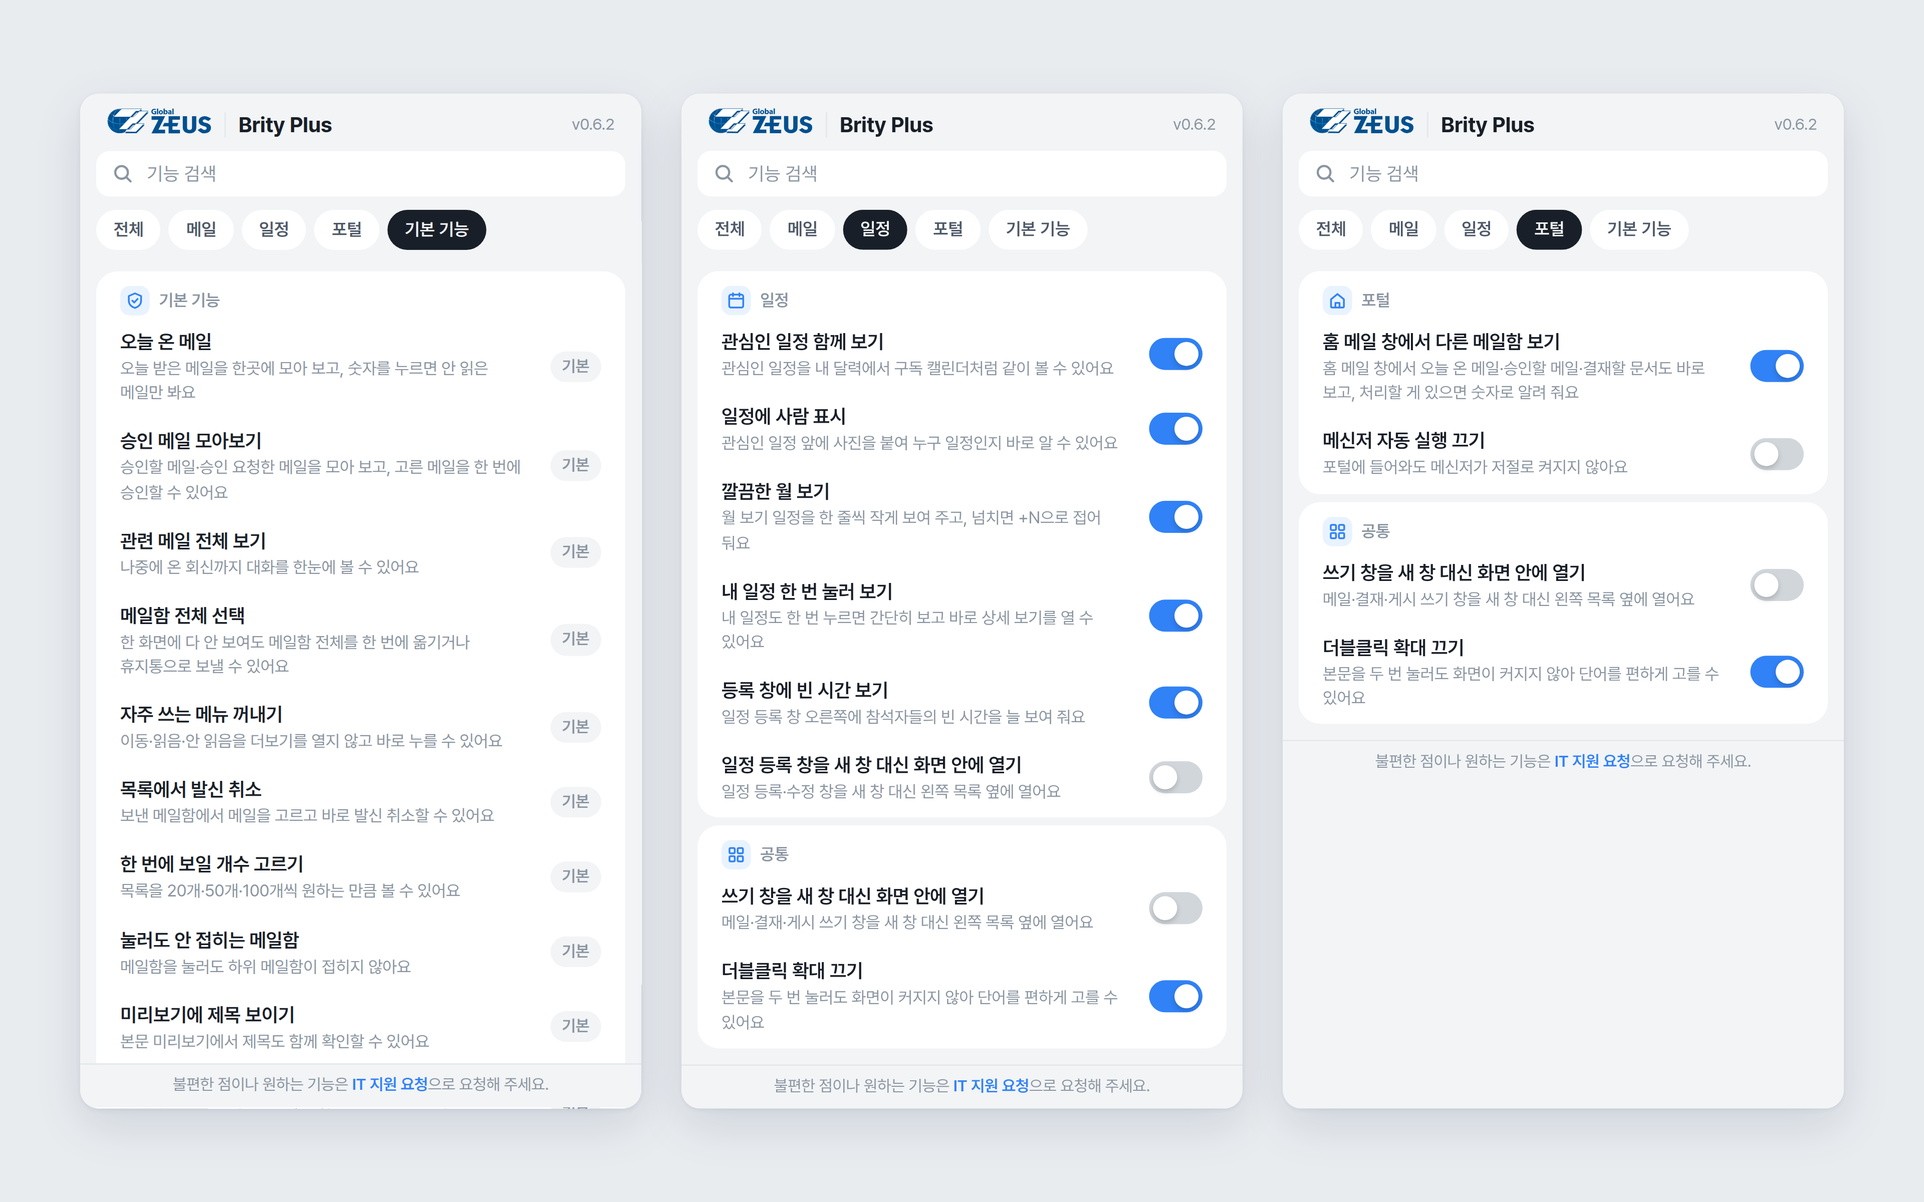
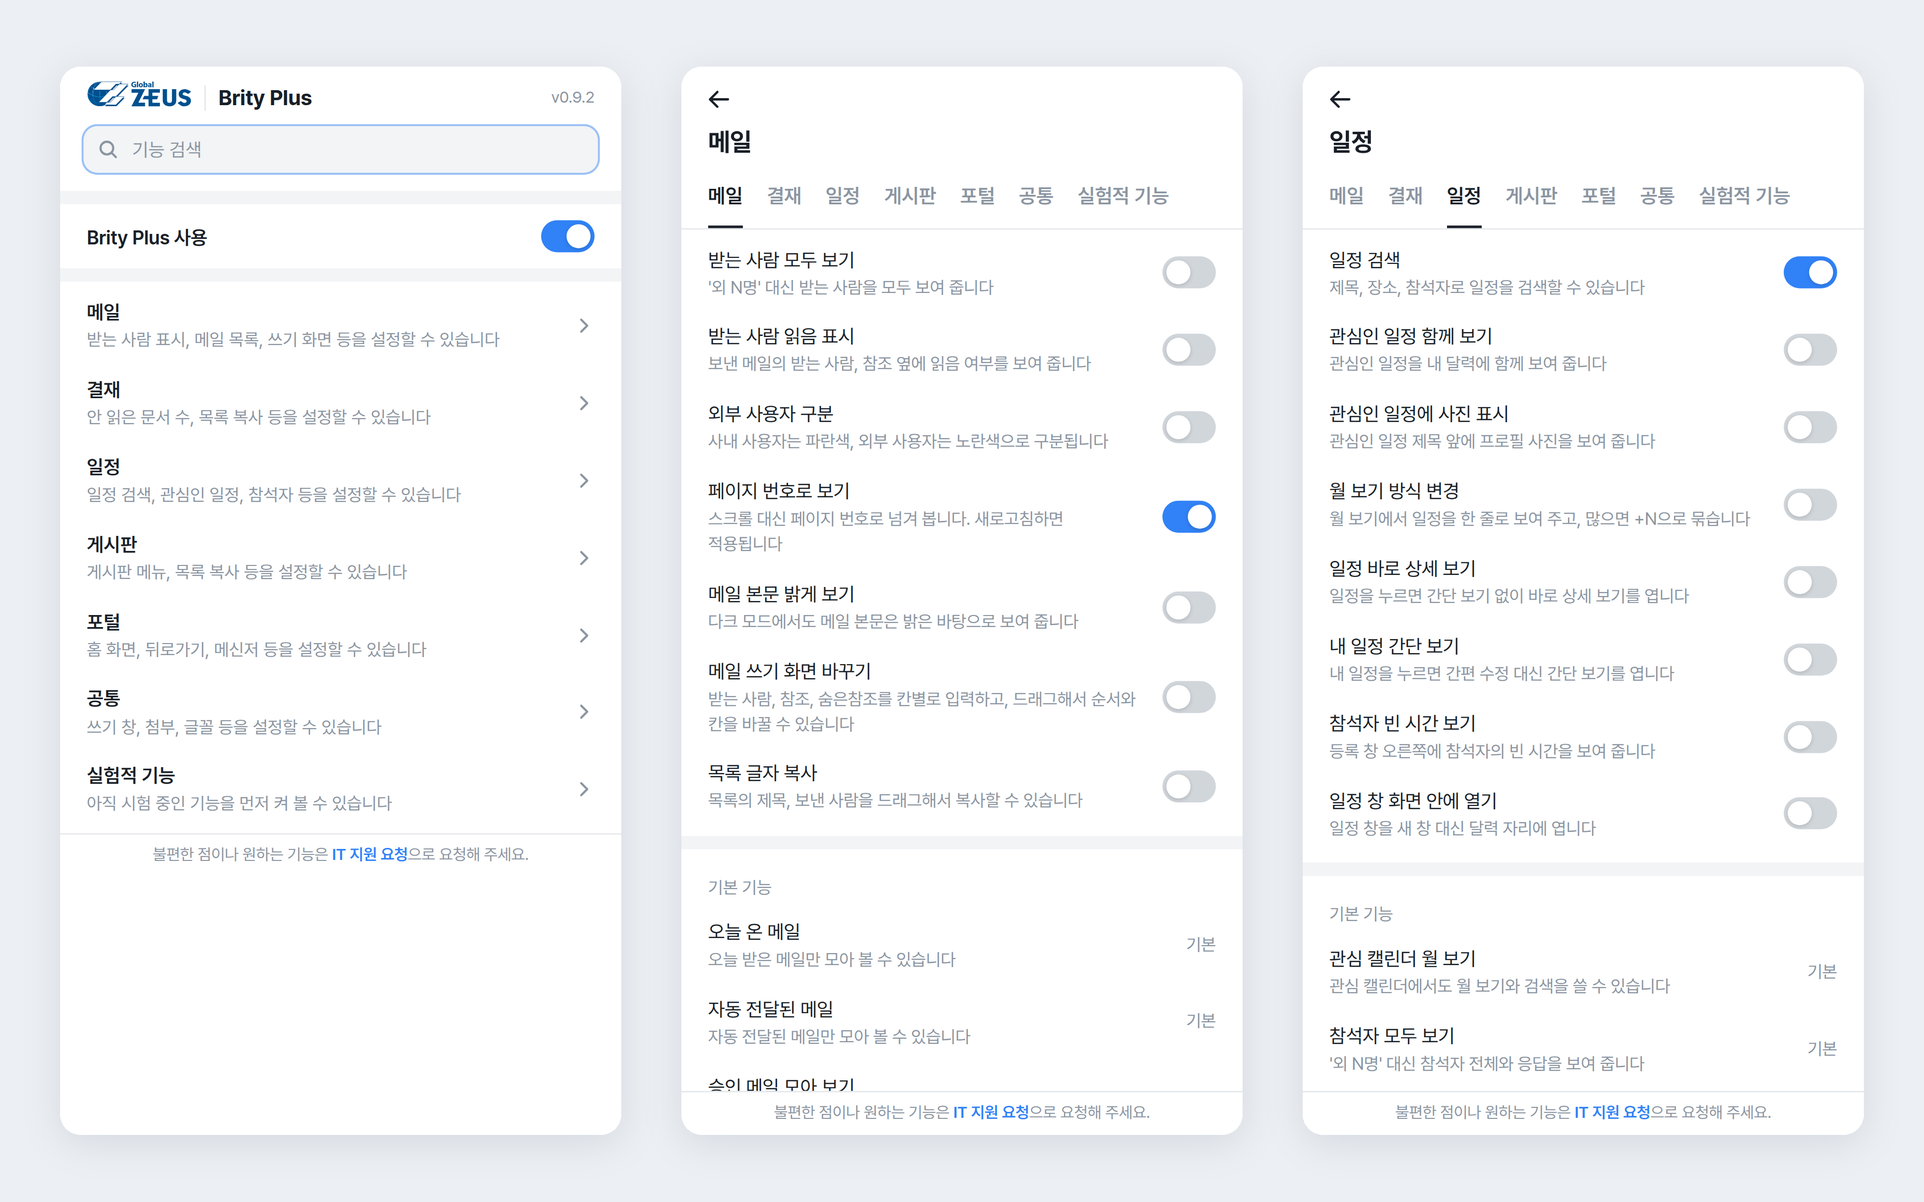
content: 10-07 이후 변경분 반영, AI 회의록과 양식 섹션 추가
- brity-plus: 기능 수 46개(기본 24), 원격 관리, 그룹 단위 공개,
  설치 프로그램 배포를 적고 팝업과 콘솔 캡처를 0.9.2 기준으로 다시 찍음
- ai-platform: 생각 깊이 네 단계와 매우 높음 주간 한도, 개발 중인
  양식과 AI 회의록 섹션과 캡처 추가
- oneplace: 알림 발송 권한, hr-evaluation: 2026년 10월 작업 반영

diff --git a/src/content/builds.ts b/src/content/builds.ts
@@ -95,10 +95,10 @@ export const builds: Build[] = [
     tech: 'Chrome Extension (Manifest V3) · JavaScript · Node.js',
     other: true,
     blocks: [
-      { type: 'image', src: '/projects/brity-plus/271.png', alt: 'Brity Plus 팝업 - 기본 기능 목록, 일정과 포털 탭의 켜고 끄는 스위치', caption: '기능 설정 팝업' },
+      { type: 'image', src: '/projects/brity-plus/271.png', alt: 'Brity Plus 팝업 - 분류 목록, 메일과 일정 분류의 켜고 끄는 스위치와 기본 기능', caption: '기능 설정 팝업' },
       { type: 'heading', text: '개요' },
       { type: 'paragraph', text: '회사 그룹웨어인 Brity Works의 불편한 점을 브라우저 쪽에서 고치는 크롬 확장 프로그램입니다. 사내에서 모은 개선 요청을 삼성SDS에 전달했고, 그중 화면 동작에 관한 일부는 반영할 수 없다는 답을 받았습니다. 서버는 고칠 수 없어서 브라우저에서 고쳤습니다.' },
-      { type: 'paragraph', text: '메일, 결재, 일정, 게시판, 포털에 걸쳐 서른 개 기능이 있습니다. 열아홉 개는 늘 켜져 있는 기본 기능이고, 나머지 열한 개는 확장 아이콘을 눌러 켜고 끕니다. 화면 동작을 크게 바꾸는 기능은 처음에 꺼 둡니다. 설정은 사내 포털 계정에 저장해 다른 PC에서도 같게 씁니다.' },
+      { type: 'paragraph', text: '메일, 결재, 일정, 게시판, 포털에 걸쳐 마흔여섯 개 기능이 있습니다. 스물네 개는 늘 켜져 있는 기본 기능이고, 나머지 스물두 개는 확장 아이콘을 눌러 켜고 끕니다. 화면 동작을 크게 바꾸는 기능은 처음에 꺼 둡니다. 설정은 사내 포털 계정에 저장해 다른 PC에서도 같게 씁니다.' },
       { type: 'heading', text: '메일함 전체 선택' },
       { type: 'paragraph', text: 'Brity 메일은 화면에 불러온 목록 안에서만 메일을 고를 수 있습니다. 전체 선택을 켜면 메일함 전체를 골라 한 번에 옮기거나 휴지통으로 보냅니다. 옮기고 지우는 요청은 Brity 화면이 쓰는 것을 그대로 써서, Brity에서 직접 처리한 것과 결과가 같습니다.' },
       { type: 'heading', text: '포털 뒤로가기' },
@@ -107,8 +107,14 @@ export const builds: Build[] = [
       { type: 'paragraph', text: 'Brity의 첨부 뷰어는 꺼져 있어 첨부를 보려면 내려받아야 했습니다. 이미지는 새 창에 바로 띄우고, 한글과 오피스 문서는 사내 포털의 공용 문서뷰어로 엽니다. 뷰어에 올린 파일은 올린 사람만 볼 수 있고 잠시 뒤 지워집니다.' },
       { type: 'heading', text: '일정' },
       { type: 'paragraph', text: '관심인으로 등록한 동료의 일정을 내 달력에 겹쳐 보고, 누구 일정인지 사진으로 표시합니다. 일정을 등록할 때는 참석자들의 빈 시간을 등록 창 옆에 늘 띄웁니다.' },
+      { type: 'heading', text: '원격 관리' },
+      { type: 'paragraph', text: '확장이 Brity 화면을 망가뜨렸을 때 새 버전을 올리고 심사를 기다릴 수는 없습니다. 사내 포털 관리 화면에서 기능 하나나 전체를 끄면, 직원이 Brity 화면을 새로 열 때 꺼집니다. 끈 목록은 로그인 없이 받아 와서 포털에 로그인하지 않은 직원에게도 걸리고, 받아 오지 못하면 지난번 값을 씁니다. 같은 화면에서 기능 이름과 설명, 기본 기능 여부, 처음에 켜 둘지도 바꿉니다.' },
+      { type: 'image', src: '/projects/brity-plus/console-features.png', alt: 'Brity Plus 기능 관리 - 분류별 기능 목록, 기능마다 수정 단추와 켜고 끄는 스위치, 기본 기능 표시', caption: '기능 관리' },
+      { type: 'paragraph', text: '기능은 그룹 단위로 엽니다. 그룹에 기능과 사람이나 부서를 넣으면 그 구성원에게만 기능이 보이고, 부서는 하위 부서까지 넣을지 고릅니다. 새 기능은 시범 그룹에 먼저 열어 보고 전사 그룹에 넣습니다.' },
+      { type: 'image', src: '/projects/brity-plus/console-groups.png', alt: 'Brity Plus 그룹 설정 - 왼쪽 그룹 목록, 오른쪽 전사 그룹에 넣은 기능 타일', caption: '그룹 설정' },
       { type: 'heading', text: '배포' },
       { type: 'paragraph', text: '크롬 웹스토어에 검색되지 않는 \'목록에 없음\'으로 올리고, 회사 정책으로 직원 PC에 설치합니다. 도메인에 가입하지 않은 PC도 있어, 웹스토어 밖에서 받는 방식은 쓰지 않았습니다. 일정 변경 이력은 Brity가 그 정보를 내주지 않아 만들지 못했습니다.' },
+      { type: 'paragraph', text: '직원에게는 설치 프로그램 하나를 나눠 줍니다. 실행하면 관리자 권한으로 크롬과 엣지의 회사 정책에 확장을 등록하고, 마지막에 브라우저를 다시 열어 바로 적용합니다. 배포 도구로는 창 없이 설치하고, 지우면 등록한 항목만 빠집니다.' },
     ],
   },
   {
@@ -322,6 +328,7 @@ export const builds: Build[] = [
       { type: 'paragraph', text: '시스템은 하나씩 옮겼습니다. 아직 옛 방식인 시스템도 같은 아웃박스와 워커를 쓰게 해, 프로젝트 관리와 영업, 특허, 근태, 방문예약을 차례로 전환하는 동안 알림이 끊기지 않았습니다.' },
       { type: 'heading', text: '알림 발송' },
       { type: 'paragraph', text: '관리자가 사내 메신저로 공지를 보내는 알림 발송 화면도 만들었습니다. 발신 봇을 고르고 부서나 조건으로 받는 사람을 정해 카드, 글, 이미지, 링크, 표로 보냅니다. 받는 사람마다 값을 바꿔 넣는 템플릿과 매일, 매주, 매월 반복 발송이 있고, 발송 이력에서 받는 사람별 결과를 봅니다. 발송은 알림 플랫폼과 같은 아웃박스와 워커를 탑니다.' },
+      { type: 'paragraph', text: '발신 권한은 봇마다 사람이나 부서에 주고, 권한이 있는 사람에게만 알림 발송 메뉴가 열립니다.' },
       { type: 'heading', text: '모바일 앱' },
       { type: 'image', src: '/projects/oneplace/142.png', alt: '모바일 앱 홈 화면', caption: '모바일 앱 셸 - 홈' },
       { type: 'image', src: '/projects/oneplace/143.png', alt: '모바일 앱 알림 화면', caption: '모바일 앱 셸 - 받은 알림' },
@@ -490,6 +497,11 @@ export const builds: Build[] = [
       { type: 'image', src: '/projects/ai-platform/181.png', alt: 'HTML 웹페이지 생성 화면 - 채팅 옆 아티팩트 패널 렌더링', caption: 'HTML 리포트를 만든 대화' },
       { type: 'paragraph', text: '웹페이지는 생성 직후 정적 규칙 검사와 헤드리스 렌더링 계측으로 요소 겹침이나 화면 넘침 같은 결함을 찾아 힌트로 에이전트에게 되돌리고, 에이전트는 전체를 다시 만드는 대신 결함이 있는 부분만 편집 도구로 고칩니다.' },
       { type: 'image', src: '/projects/ai-platform/133.png', alt: '보관함 화면', caption: '채팅에서 쓰고 만든 파일이 모이는 보관함' },
+      { type: 'heading', text: '양식 (개발 중)' },
+      { type: 'image', src: '/projects/ai-platform/274.png', alt: '양식 상세 화면 - 장 미리보기, 작성 규칙, 이 양식으로 채팅 시작 버튼', caption: '양식 상세' },
+      { type: 'paragraph', text: '회사 PPT 양식을 채팅에 매번 다시 올리는 사람이 많았습니다. 2주 동안 27명이 양식 파일을 75번 올렸고, 그중 12명은 같은 파일을 거듭 올렸습니다. 그래서 양식을 한 번 올려 두고 대화에서 고르게 했습니다.' },
+      { type: 'paragraph', text: '양식을 고르면 입력창에 칩으로 붙고, 그 대화의 PPT는 양식 파일 위에 만들어집니다. 양식을 색과 글꼴 같은 규격으로 바꾸지 않고 원본 위에 채우는 것은 마스터와 로고를 그대로 살리기 위해서입니다. 파일에 담기지 않는 제목 길이나 숫자 표기 같은 관례는 양식마다 작성 규칙으로 적어 둡니다.' },
+      { type: 'paragraph', text: '올린 양식은 사람, 부서, 전사에 공유합니다. 남이 공유한 양식의 작성 규칙은 지시가 아니라 참고 자료로만 넘겨, 규칙에 적힌 문장이 에이전트를 움직이지 못하게 했습니다.' },
       { type: 'heading', text: 'AI 슬라이드 (개발 중)' },
       { type: 'image', src: '/projects/ai-platform/250.png', alt: 'AI 슬라이드 갤러리 - 내 프로젝트와 템플릿', caption: '내 프로젝트와 템플릿' },
       { type: 'image', src: '/projects/ai-platform/251.png', alt: 'AI 슬라이드 편집 화면 - 왼쪽 AI 대화, 가운데 편집 중인 장, 아래 장 목록', caption: '편집 화면' },
@@ -504,6 +516,12 @@ export const builds: Build[] = [
       { type: 'paragraph', text: '사람이 직접 고친 부분은 에이전트가 덮어쓰지 않고, 되돌리기를 눌러도 그사이 에이전트가 바꾼 내용은 그대로 둡니다. 에이전트가 고친 턴마다 저장 지점을 남겨, 기록에서 이전 판으로 돌아갈 수 있습니다.' },
       { type: 'paragraph', text: '대화로 고치다가 직접 손보고 싶을 때를 위해 편집기 왼쪽에 요소, 텍스트, 사진, 업로드, 배경 패널을 두었습니다. 요소 패널에는 도형과 아이콘 외에 차트 모양과 타임라인, SWOT 같은 도해를 묶음으로 두어 장의 뼈대를 한 번에 세울 수 있습니다. 요소를 끌면 다른 요소의 가장자리나 장 가운데에 붙으면서 안내선이 서고, 묶거나 잠글 수도 있습니다. 글꼴과 정렬은 위쪽 서식 줄에서 바로 바꿉니다.' },
       { type: 'paragraph', text: '사진은 여러 장을 한 번에 올리거나 편집 중인 장에 바로 끌어다 놓을 수 있고, 사진 패널에서 무료 사진을 찾아 넣을 수도 있습니다. 사진이 발표자료에 박혀 밖으로 나가기 때문에 출처 표기 의무가 없는 CC0 사진만 서버를 거쳐 보여 줍니다.' },
+      { type: 'heading', text: 'AI 회의록 (개발 중)' },
+      { type: 'image', src: '/projects/ai-platform/275.png', alt: '회의 상세 화면 - 왼쪽 화자별 기록, 오른쪽 요약과 근거 시각, 아래 재생 막대', caption: '회의 상세 - 기록과 요약' },
+      { type: 'image', src: '/projects/ai-platform/276.png', alt: '회의 목록 화면 - 회의 시작, 녹음 파일 올리기, 회의별 요약', caption: '회의 목록' },
+      { type: 'paragraph', text: '회의를 녹음하거나 녹음 파일을 올리면 발언 기록으로 옮기고, 기록을 바탕으로 요약을 만듭니다. 기록의 글자를 누르면 그 자리부터 다시 듣고, 요약 항목마다 근거가 된 발언 시각이 붙습니다.' },
+      { type: 'paragraph', text: '녹음은 브라우저에서 바로 합니다. 녹음하는 동안 조각을 브라우저에 쌓아 두어, 탭이 닫혀도 다시 열면 녹음을 건질 수 있습니다. 전사할 때는 참석자 이름과 회의 용어를 힌트로 넘겨 이름을 잘못 받아 적는 일을 줄였습니다.' },
+      { type: 'paragraph', text: '요약의 근거 시각은 모델이 쓴 인용을 기록에서 실제로 찾았을 때만 붙이고, 찾지 못하면 근거 미확인으로 남깁니다. 할 일의 기한이 주말이나 회사 휴일에 걸리면 앞 평일로 맞춥니다. 회의 내용은 AI에게 묻기 탭에서 이어서 물어볼 수 있습니다.' },
       { type: 'heading', text: '코드 인터프리터' },
       { type: 'image', src: '/projects/ai-platform/163.png', alt: '코드 인터프리터 차트 생성 화면', caption: '코드 실행 결과 - 인터랙티브 차트' },
       { type: 'paragraph', text: '데이터 분석이나 차트 생성처럼 계산이 필요한 요청은 LLM이 직접 답하지 않고 Python 코드를 작성해 실행합니다. 실행 환경은 네트워크 차단, 읽기 전용 파일시스템, 리소스 제한을 건 격리 샌드박스를 별도 서비스로 두었고, 격리 항목을 자동 검증하는 스크립트를 배포 조건으로 삼았습니다.' },
@@ -539,7 +557,8 @@ export const builds: Build[] = [
       { type: 'image', src: '/projects/ai-platform/130.png', alt: '한도 제어 화면', caption: '사용자별 맞춤 한도' },
       { type: 'paragraph', text: 'Claude Opus 같은 고단가 모델을 열면서 사용자별 월 한도(USD)를 두었습니다. 호출마다 모델 단가와 사용 토큰으로 비용을 쌓고, 모델을 고를 때 이번 달 누적을 확인해 한도를 넘긴 모델은 고를 수 없게 합니다.' },
       { type: 'paragraph', text: '모델은 OpenAI, Anthropic, Gemini를 함께 지원하고, 프로바이더별 API 차이는 드라이버 계층에서 흡수합니다. 프롬프트 캐싱의 캐시 토큰도 따로 집계해 청구 기준에 맞춰 계산합니다.' },
-      { type: 'paragraph', text: '모델 메뉴에서 추론 강도를 낮음, 중간, 높음 세 단계로 고를 수 있습니다. 공급자마다 단계 이름과 값이 달라 모델별로 세 단계를 실제 값에 대응시켰고, 값이 확인되지 않은 모델에서는 선택을 숨깁니다.' },
+      { type: 'paragraph', text: '모델 메뉴에서 생각 깊이를 낮음, 중간, 높음, 매우 높음 네 단계로 고릅니다. 공급자마다 단계 이름과 값이 달라 모델별로 실제 값에 대응시켰고, 값이 확인되지 않은 모델에서는 선택을 숨깁니다. 매우 높음은 느리고 비용이 커서 사람마다 일주일에 40회로 묶고, 넘기면 높음으로 답합니다.' },
+      { type: 'image', src: '/projects/ai-platform/277.png', alt: '모델 메뉴의 생각 깊이 - 낮음, 중간, 높음, 매우 높음과 남은 횟수', caption: '생각 깊이' },
       { type: 'paragraph', text: '비용을 관리자만 보는 구조로는 사용자가 자기 소비를 알 수 없어, 본인 사용량 화면을 따로 열었습니다. 월 단위로 쓴 금액과 토큰, 모델별 분해, 일자별 추이를 보고 한도가 걸리는 모델은 표식으로 구분합니다. 답변에도 그 턴에 든 비용을 모델 배지 옆에 붙여, 어떤 질문이 비싼지 그 자리에서 보이게 했습니다.' },
       { type: 'heading', text: '대시보드' },
       { type: 'image', src: '/projects/ai-platform/131.png', alt: '관리자 대시보드 화면', caption: '관리자 대시보드' },
@@ -742,7 +761,7 @@ export const builds: Build[] = [
     category: 'Enterprise System',
     org: 'GlobalZeus',
     role: '2인 개발(풀스택)',
-    period: '2023. 10 ~ 2024. 12',
+    period: '2023. 10 ~ 2024. 12, 2026. 10',
     tech: 'Node.js · EJS · MSSQL',
     blocks: [
       { type: 'image', src: '/projects/hr-evaluation/73.png', alt: '인사평가 시스템 메인 화면' },
@@ -756,6 +775,7 @@ export const builds: Build[] = [
       { type: 'image', src: '/projects/hr-evaluation/76.png', alt: '목표 상세 화면', caption: '목표 상세 화면' },
       { type: 'paragraph', text: '목표는 사업부 → 그룹 → 팀 → 개인으로 연결되는 트리 구조입니다. 개인 목표가 상위 조직의 어떤 목표에 기여하는지 따라갈 수 있고, 목표에는 승인 결재와 파일 첨부와 댓글이 붙습니다.' },
       { type: 'paragraph', text: '목표 입력과 수정은 패널로 여는 상세 화면에서 하고, 목표별 성과와 변경 이력이 쌓입니다.' },
+      { type: 'paragraph', text: '2026년 10월에는 목표 승인을 그룹웨어(Brity) 전자결재로 올리게 했습니다. Brity에는 승인 API가 없어, 결재함에서 결재가 끝나면 그 결과를 받아 평가 시스템의 승인을 대신 처리합니다.' },
       { type: 'heading', text: '평가진행' },
       { type: 'image', src: '/projects/hr-evaluation/77.png', alt: '평가 메인 화면', caption: '평가 메인 화면' },
       { type: 'image', src: '/projects/hr-evaluation/78.png', alt: '업적평가 진행 화면', caption: '업적평가 진행 화면' },
@@ -764,6 +784,7 @@ export const builds: Build[] = [
       { type: 'image', src: '/projects/hr-evaluation/81.png', alt: '평가결과 조회 화면', caption: '평가결과 조회 화면' },
       { type: 'paragraph', text: '한 사람이 평가자이면서 피평가자, 검토자를 겸합니다. 평가받는 화면과 평가하는 화면, 부서원 결과 화면을 한 진입점에서 전환합니다.' },
       { type: 'paragraph', text: '진행 상태(미시작, 진행중, 검토대기, 확정)를 한 화면에 모아 보여줍니다.' },
+      { type: 'paragraph', text: '본인 평가에는 근거 자료를 첨부할 수 있고, 평가자는 첨부를 미리보기와 다운로드만 합니다.' },
       { type: 'paragraph', text: '점수는 업적 평가와 역량 평가에 가중치를 매겨 계산합니다. 등급은 S~D 비율과 점수 예산이 정해진 상대평가라, 평가자가 예산 안에서 배정하고 비율 초과나 점수와 순위가 뒤집히는 배정은 시스템이 막습니다.' },
       { type: 'paragraph', text: '흐름은 평가 입력, 1차 평가, 2차 평가(검토), 결과 확정, 피드백 공개 순서입니다.' },
     ],

diff --git a/src/content/imageDims.ts b/src/content/imageDims.ts
@@ -56,6 +56,10 @@ export const imageDims: Record<string, { w: number; h: number }> = {
   '/projects/attendance/46.png': { w: 1652, h: 942 },
   '/projects/attendance/47.png': { w: 1633, h: 936 },
   '/projects/attendance/48.png': { w: 737, h: 851 },
+  '/projects/ai-platform/274.png': { w: 3840, h: 2160 },
+  '/projects/ai-platform/275.png': { w: 3840, h: 2160 },
+  '/projects/ai-platform/276.png': { w: 3840, h: 2160 },
+  '/projects/ai-platform/277.png': { w: 3840, h: 2160 },
   '/projects/bi/102.png': { w: 3840, h: 2160 },
   '/projects/bi/103.png': { w: 1600, h: 900 },
   '/projects/bi/104.png': { w: 1600, h: 900 },
@@ -66,6 +70,8 @@ export const imageDims: Record<string, { w: number; h: number }> = {
   '/projects/bi/165.png': { w: 2560, h: 564 },
   '/projects/bi/166.png': { w: 2880, h: 1800 },
   '/projects/brity-plus/271.png': { w: 3840, h: 2400 },
+  '/projects/brity-plus/console-features.png': { w: 3840, h: 2400 },
+  '/projects/brity-plus/console-groups.png': { w: 3840, h: 2400 },
   '/projects/crm/191.png': { w: 2880, h: 1620 },
   '/projects/crm/26.png': { w: 3840, h: 2160 },
   '/projects/crm/27.png': { w: 2490, h: 1350 },
